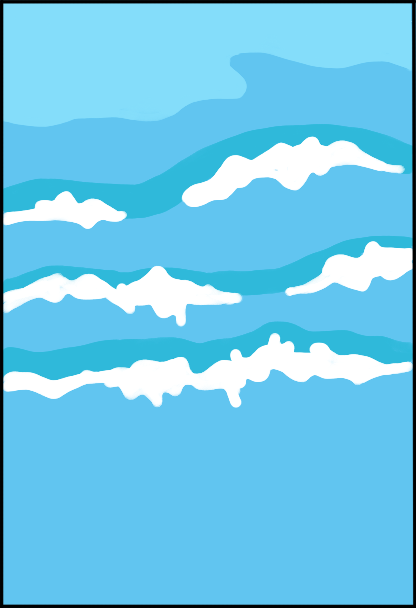
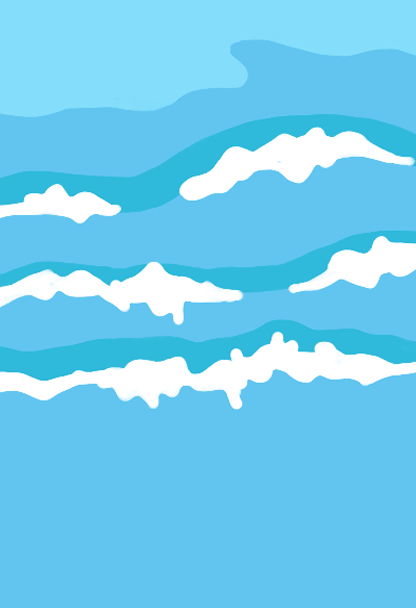
Arreglar bug de fondo y corales
Se arreglaron los bordes negros del fondo y se arreglo la posicion de los corales

diff --git a/MyWorld.java b/MyWorld.java
@@ -87,7 +87,7 @@ public class MyWorld extends World
                 addObject(new CoralAmarillo(velocidad_pez),90, 80);
             }
             else if( carril == 1){
-                addObject(new CoralMorado(velocidad_pez),190, 80);
+                addObject(new CoralMorado(velocidad_pez),195, 80);
             }
             else{
                 addObject(new CoralRosa(velocidad_pez),310, 80);
@@ -100,7 +100,7 @@ public class MyWorld extends World
                 addObject(new CoralAmarillo(velocidad_pez),90, 80);
             }
             else if( carril == 1){
-                addObject(new CoralMorado(velocidad_pez),190, 80);
+                addObject(new CoralMorado(velocidad_pez),195, 80);
             }
             else{
                 addObject(new CoralRosa(velocidad_pez),310, 80);
